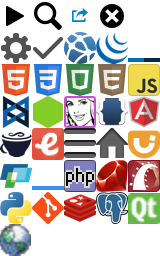
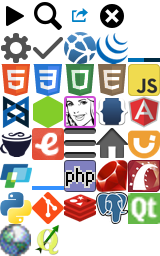
QGIS Python API styling

Changed region(s): [[0.2188, 0.875, 0.375, 1.0]]

diff --git a/assets/stylesheets/global/_icons.scss b/assets/stylesheets/global/_icons.scss
@@ -47,3 +47,4 @@
 ._icon-postgresql:before    { background-position: -3rem -6rem; }
 ._icon-pyqt:before          { background-position: -4rem -6rem; }
 ._icon-postgis:before       { background-position: 0 -7rem; }
+._icon-qgispyapi:before     { background-position: -1rem -7rem; }

diff --git a/assets/stylesheets/application.css.scss b/assets/stylesheets/application.css.scss
@@ -40,6 +40,7 @@
         'pages/postgis',
         'pages/postgres',
         'pages/pyqt',
+        'pages/qgispyapi',
         'pages/rdoc',
         'pages/redis',
         'pages/rfc',

diff --git a/assets/stylesheets/pages/_qgispyapi.scss b/assets/stylesheets/pages/_qgispyapi.scss
@@ -1,0 +1,10 @@
+._qgispyapi {
+  padding-left: 1rem;
+
+  > h1, > h2 { margin-left: -1rem; }
+
+  h2 {
+    font-size: 1em;
+    @extend %block-heading;
+  }
+}
